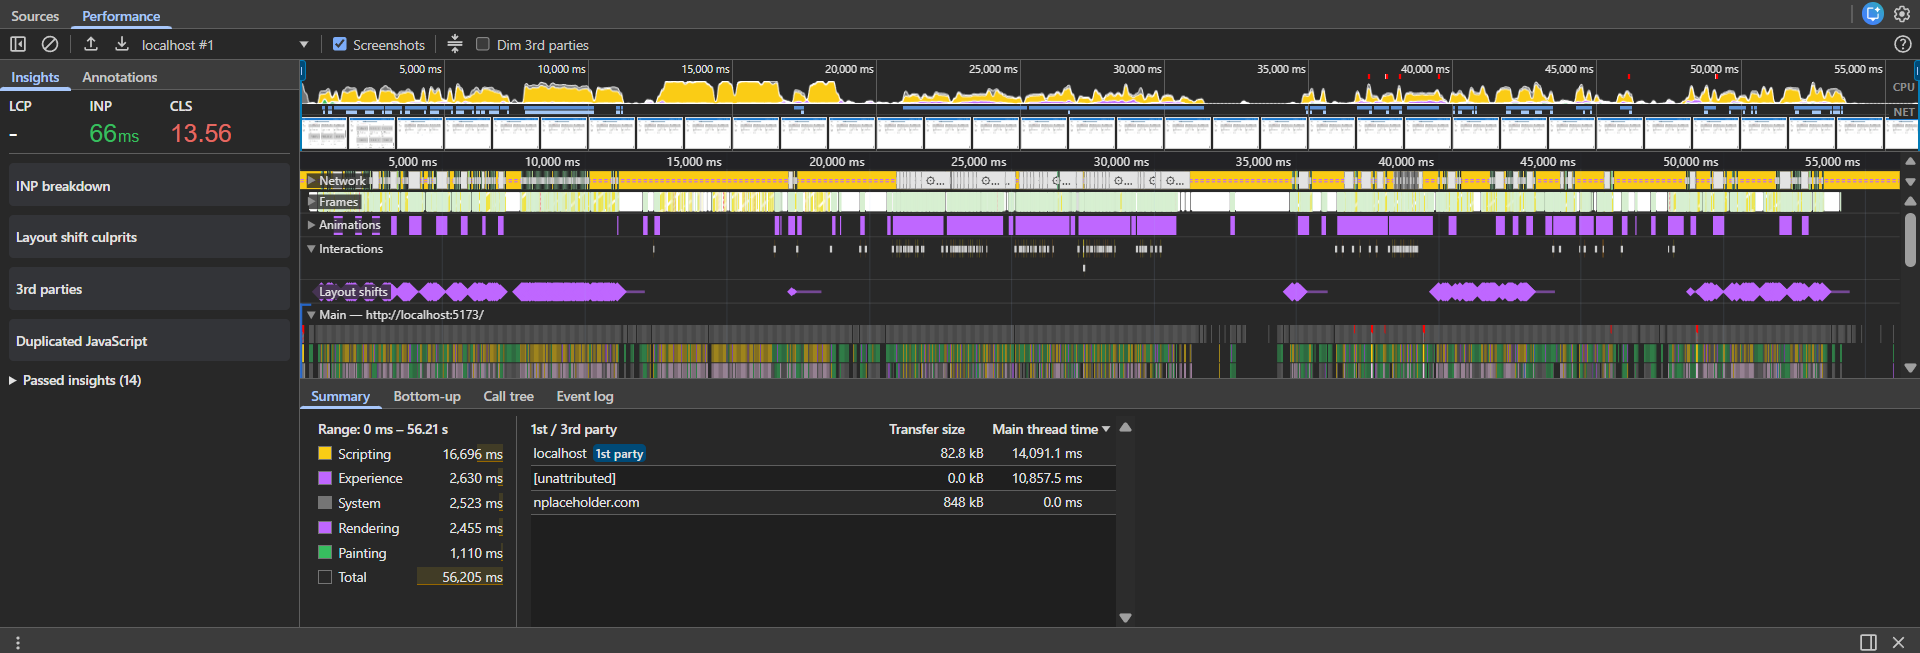
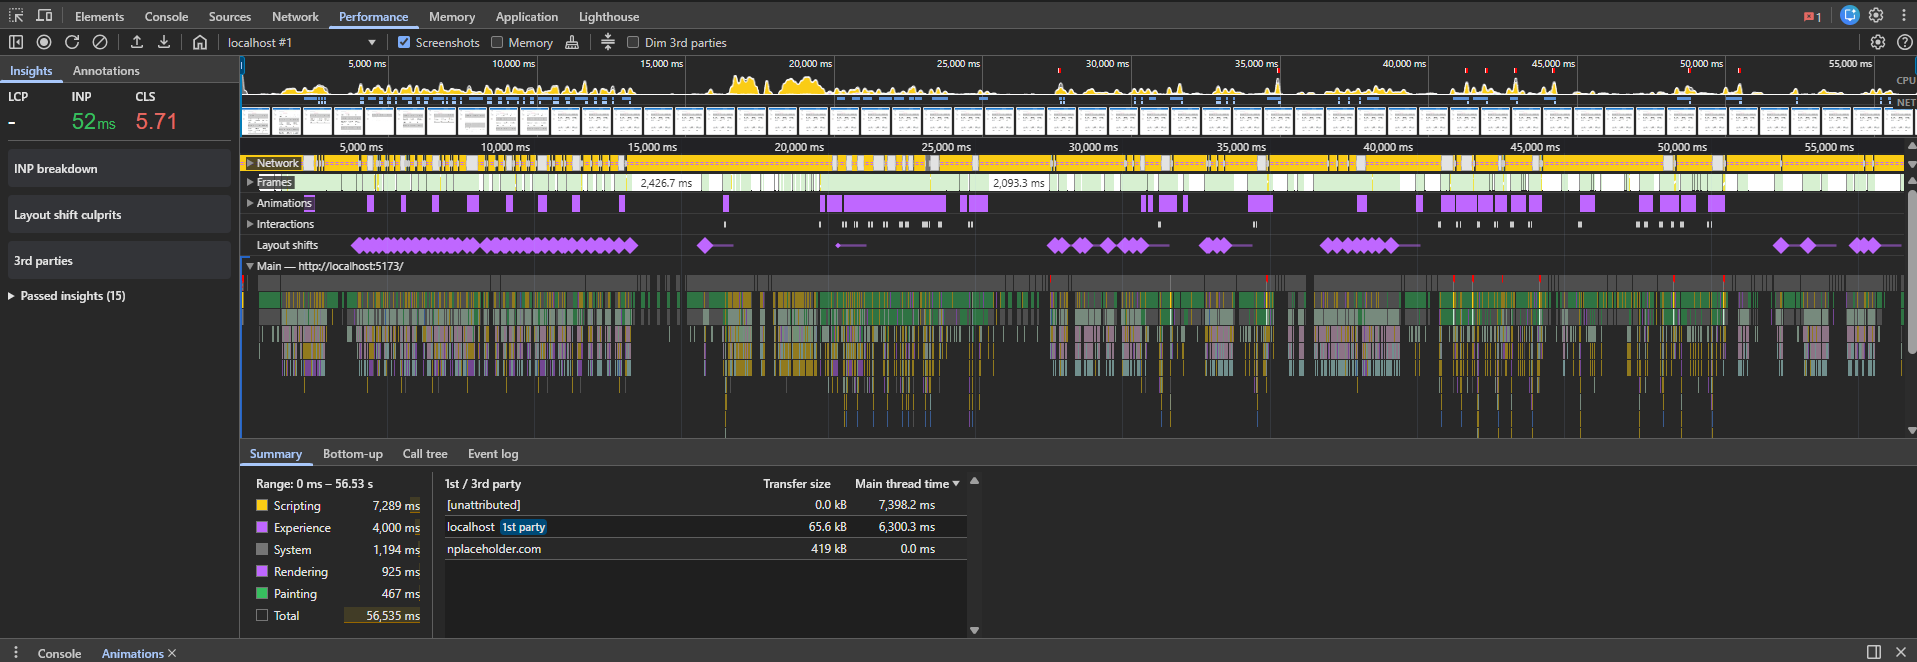
CLS optimization

diff --git a/src/components/products-page/Products.tsx b/src/components/products-page/Products.tsx
@@ -42,7 +42,10 @@ export const Products = React.memo(({
   const topPadding = Math.floor(start / itemsPerRow) * CARD_HEIGHT;
   const bottomPadding = Math.ceil((products.length - end) / itemsPerRow) * CARD_HEIGHT;
 
-  const onScroll = (container: HTMLDivElement) => {
+  const onScroll = () => {
+    const container = containerRef.current;
+    if (!container) return;
+
     const scrollTop = container.scrollTop;
     const viewHeight = container.clientHeight;
 
@@ -61,9 +64,8 @@ export const Products = React.memo(({
   useEffect(() => {
     const container = containerRef.current;
     if (!container) return;
-    onScroll(container);
-    container.addEventListener("scroll", () => onScroll(container));
-    return () => container.removeEventListener("scroll", () => onScroll(container));
+    container.addEventListener("scroll", onScroll);
+    return () => container.removeEventListener("scroll", onScroll);
   }, [products.length, itemsPerRow]);
 
   return (
@@ -73,9 +75,9 @@ export const Products = React.memo(({
         {visibleProducts.map((product) => {
           return (
             <Grid item xs={12 / itemsPerRow} key={product.id}>
+              <ProductItem addToCart={addToCart} product={product}/>
               {/* Do not remove this */}
               <HeavyComponent/>
-              <ProductItem addToCart={addToCart} product={product}/>
             </Grid>
         )})}
       </Grid>

diff --git a/src/components/products-page/ProductItem.tsx b/src/components/products-page/ProductItem.tsx
@@ -6,7 +6,6 @@ import {
   CardMedia,
   IconButton,
   Typography,
-  CircularProgress,
 } from "@mui/material";
 import React from "react";
 import RemoveIcon from "@mui/icons-material/Remove";

diff --git a/README.md b/README.md
@@ -41,17 +41,18 @@ pnpm lint
    ![Screenshot](screenshots/ss-before.png)
    ![Screenshot](screenshots/ss-after.png)
 
-   Faster loading (LCP improved): The largest visible content now appears sooner, making the initial page load feel quicker.
+   INP has been significantly improved to ensure faster and more responsive user interactions. However, this optimization required trade-offs that temporarily increased the CLS score. The priority was to enhance input responsiveness first.
 
-   Better responsiveness (INP improved): User interactions such as clicking and scrolling respond faster due to reduced JavaScript blocking and optimized state updates.
-
-## How to test my features
+## How to test the features
 Fetching products fails:
    Uncomment the block in onLoadMore function for it to randomly throw errors and try to fetch again.
+
 Clear filter functionality:
    To see clear filter functionality simply select some category and type something in search input.
+
 Cart works correctly now:
    Add or subsctract items by pressing "+" or "-", and see the cart updates.
+
 Cancellable requests:
    Press fast on some category and see how the requests cancel in the dev tools.
  
